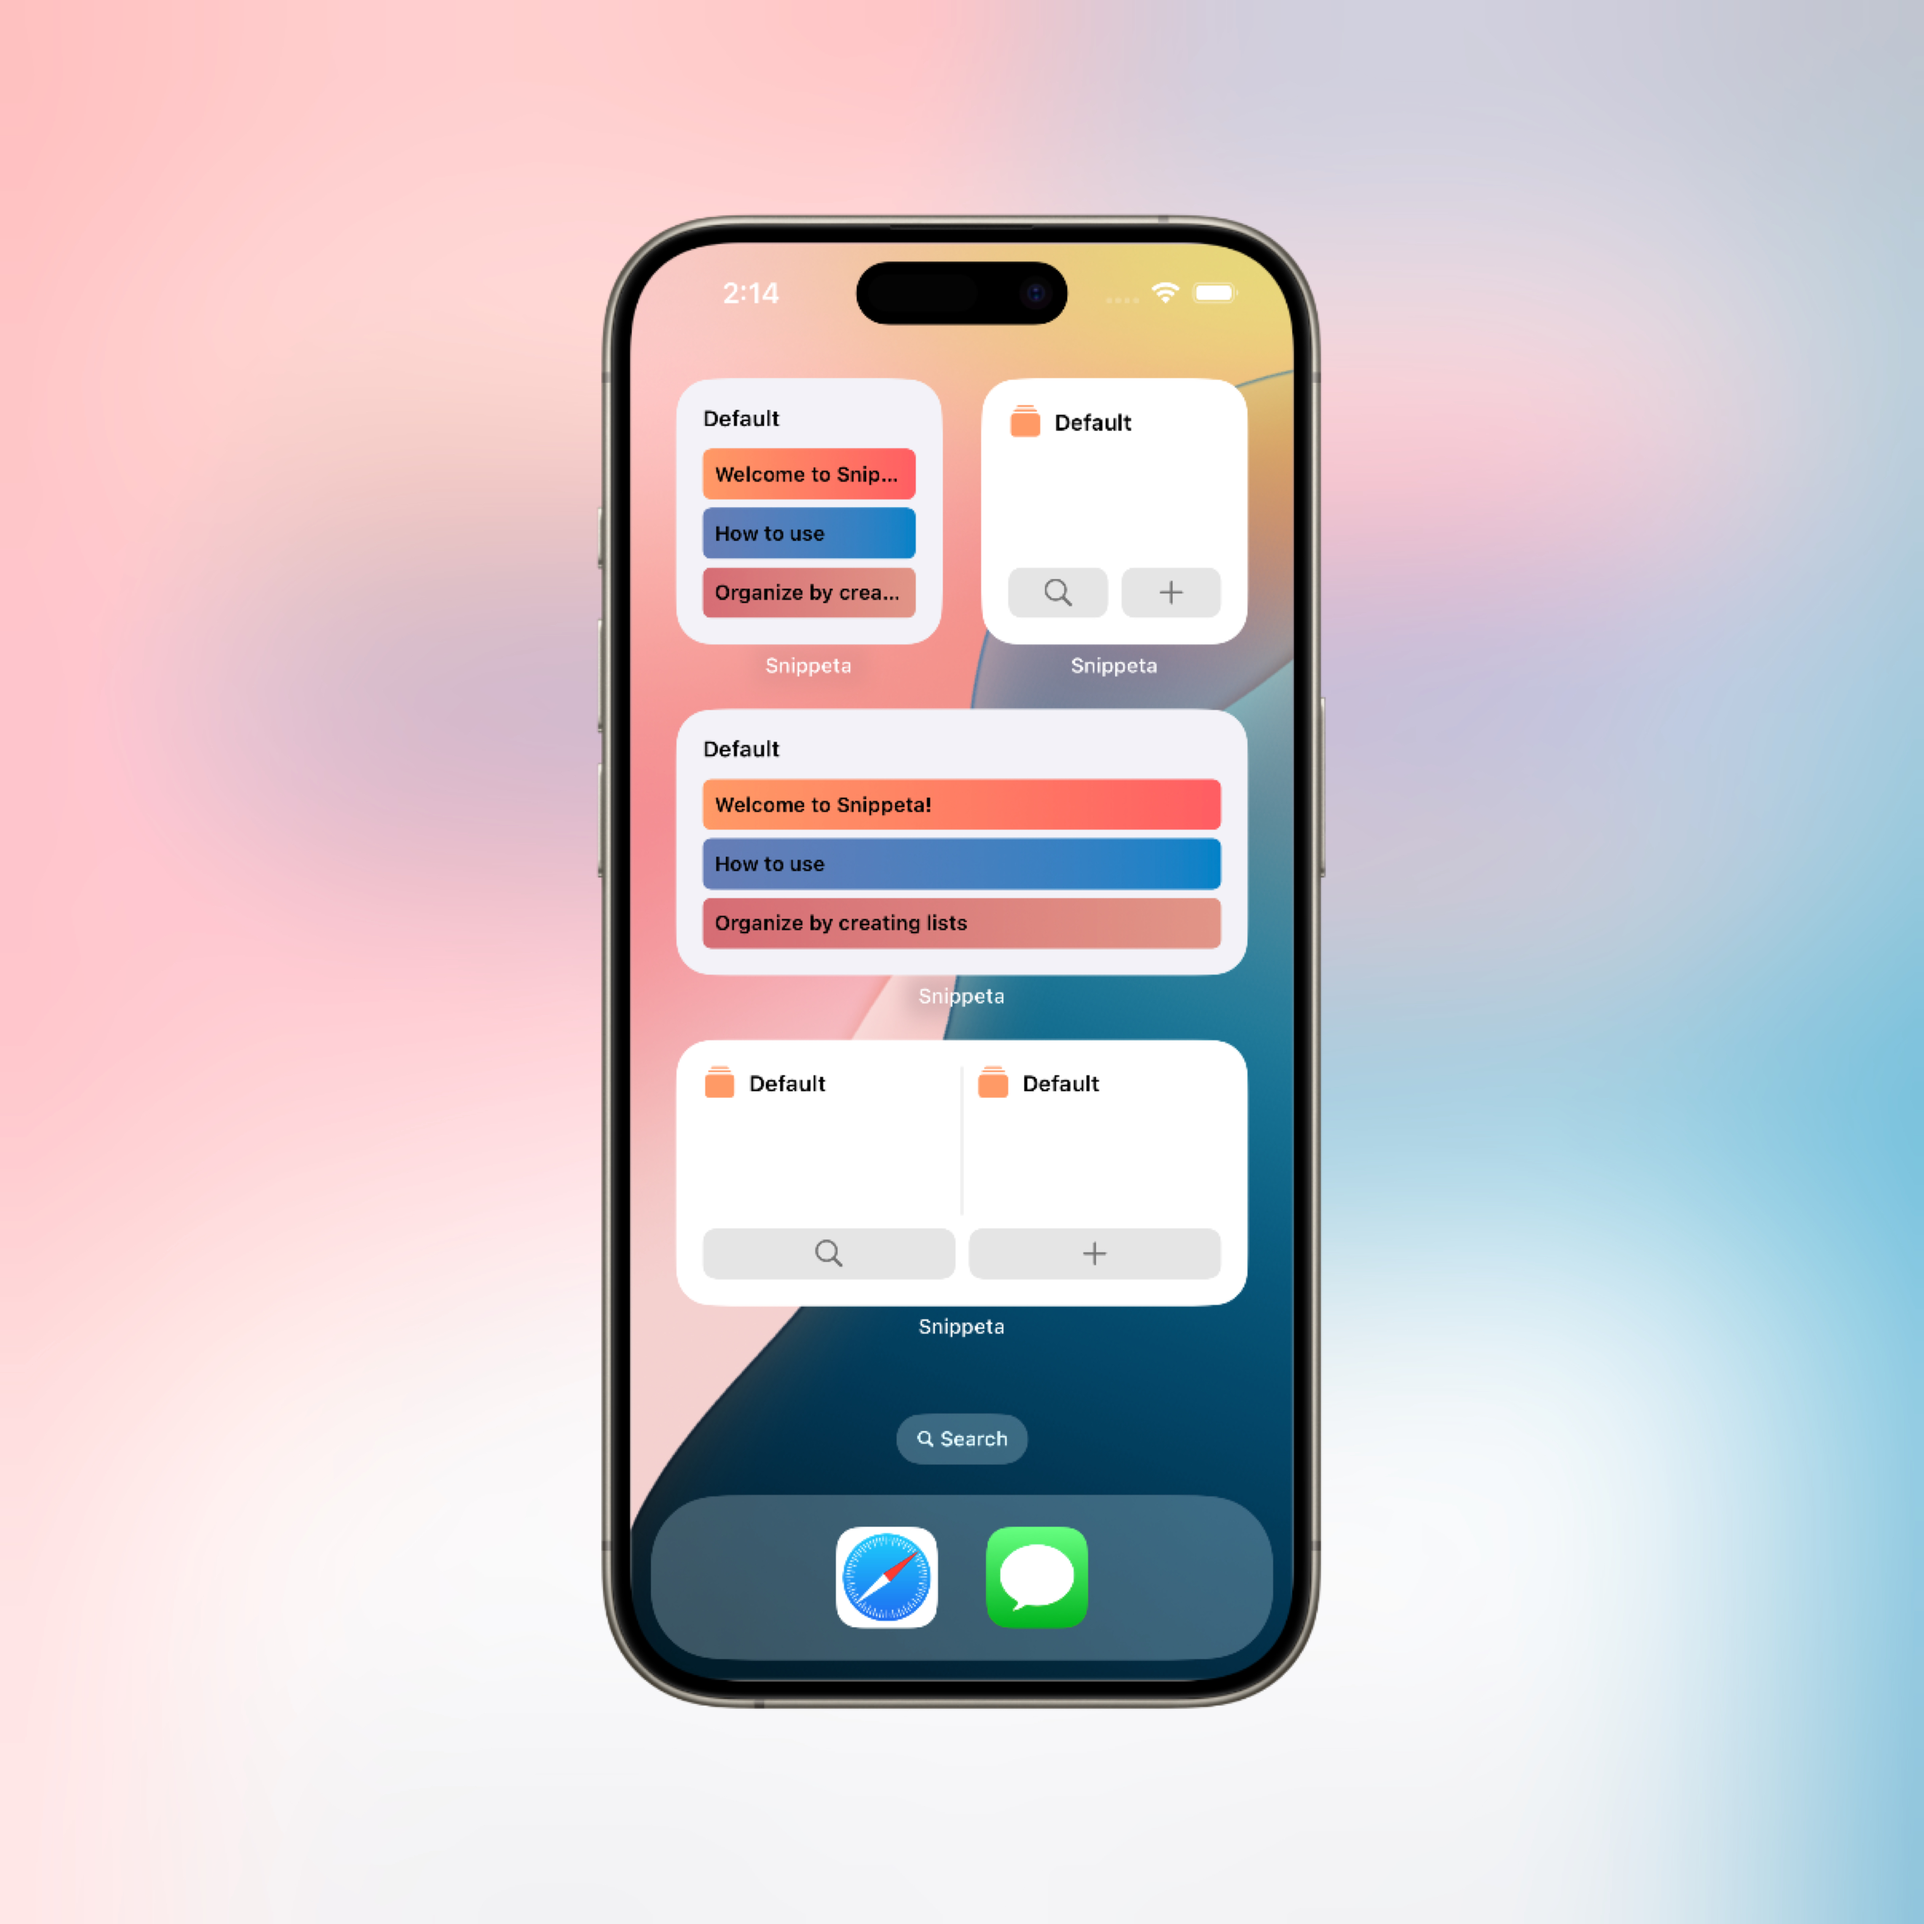
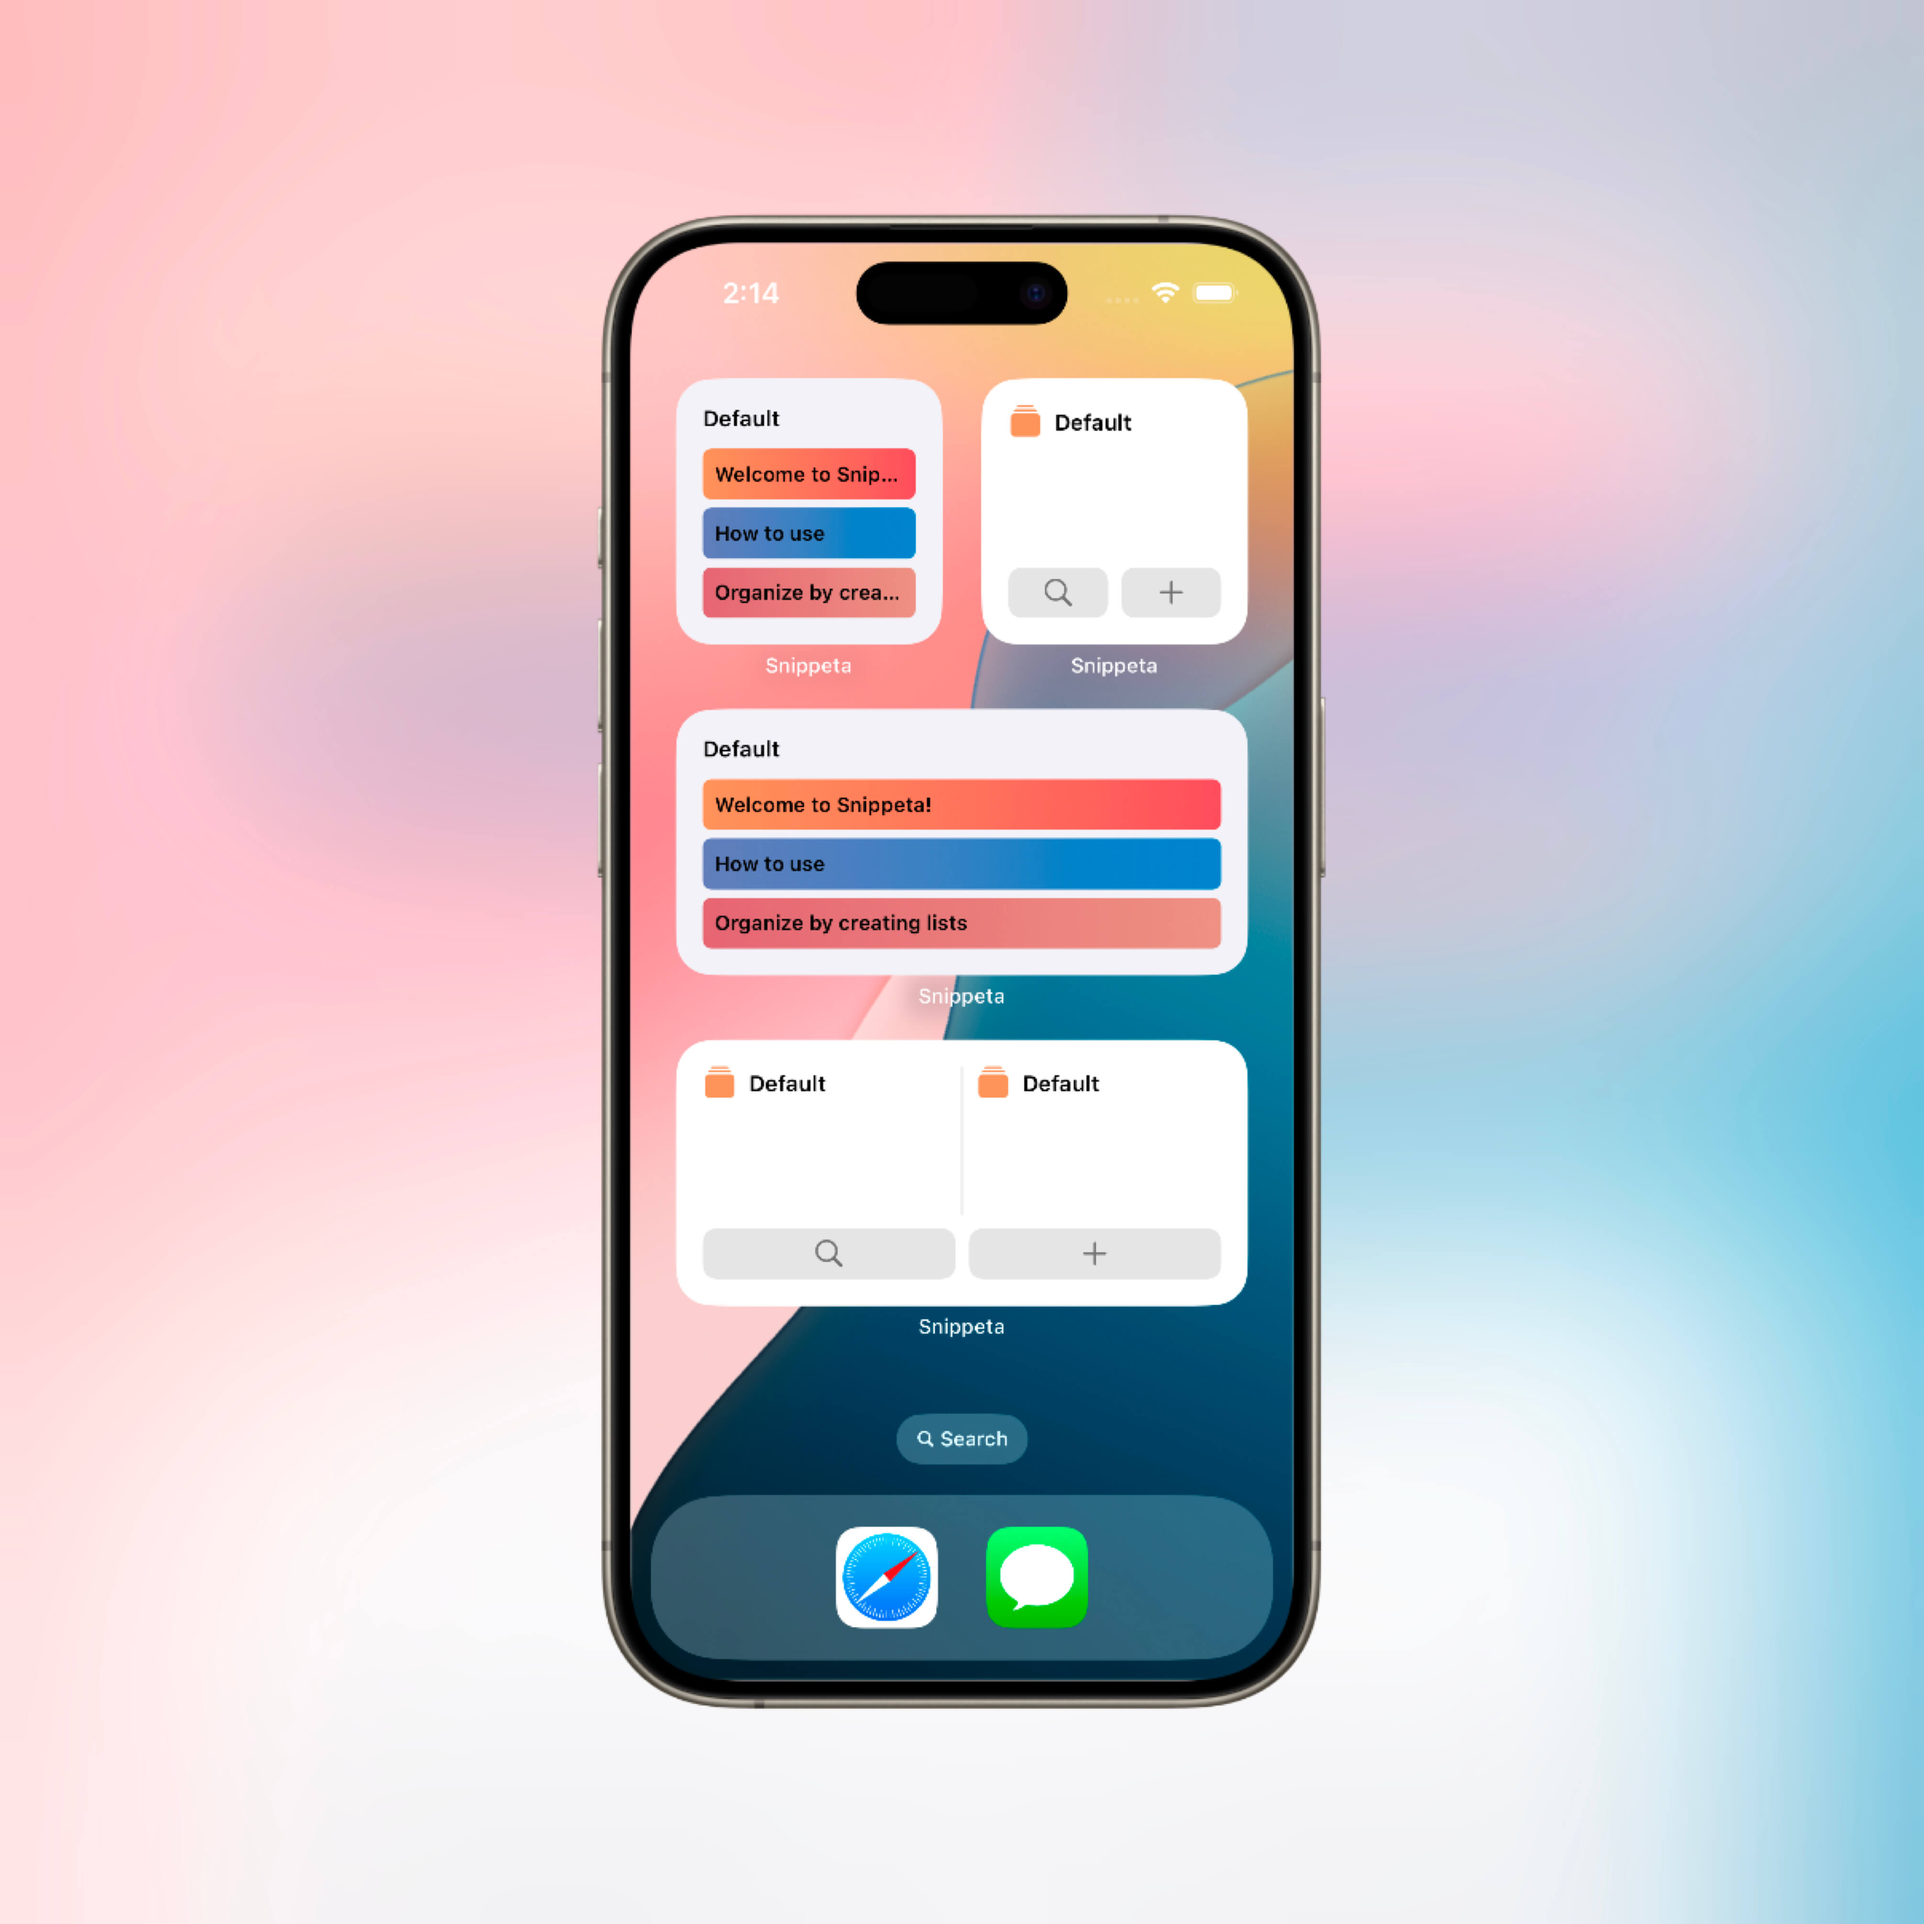
Reduce size of widget images

diff --git a/screens/WidgetScreen.js b/screens/WidgetScreen.js
@@ -21,7 +21,7 @@ const WidgetScreen = ({ navigation }) => {
           <View style={styles.placeholderIcon} />
         </View>
       </View>
-      <Image source={Platform.OS === 'ios' ? require('../assets/images/widget-preview-ios.jpeg') : require('../assets/images/widget-preview-android.png')} style={styles.previewImage} />
+      <Image source={Platform.OS === 'ios' ? require('../assets/images/widget-preview-ios.jpeg') : require('../assets/images/widget-preview-android.jpeg')} style={styles.previewImage} />
       <View style={styles.contentView}>
         <Text style={[styles.titleText, { color: themer.getColor('content2.foreground') }]}>📱 Install the widget</Text>
         <Text style={[styles.descriptionText, { color: themer.getColor('content2.foreground') }]}>..to access snippets from the device home screen</Text>
